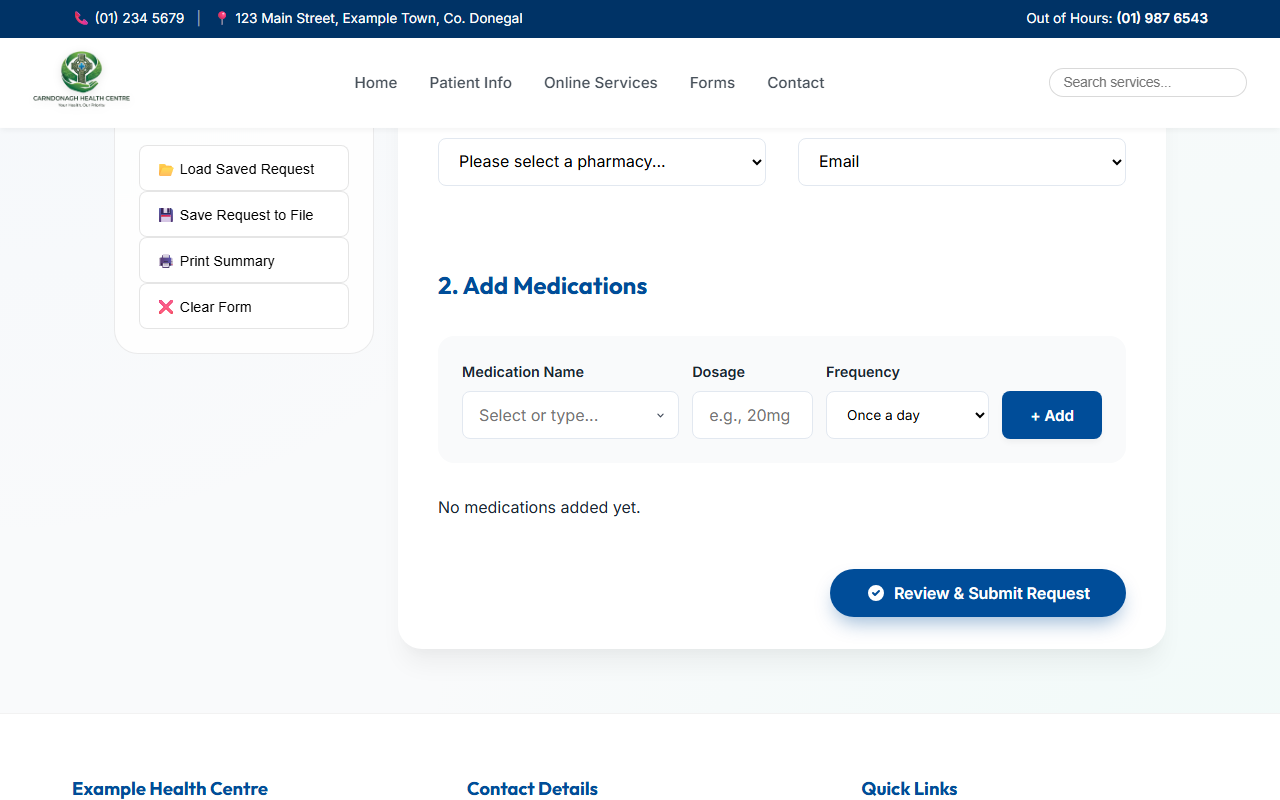
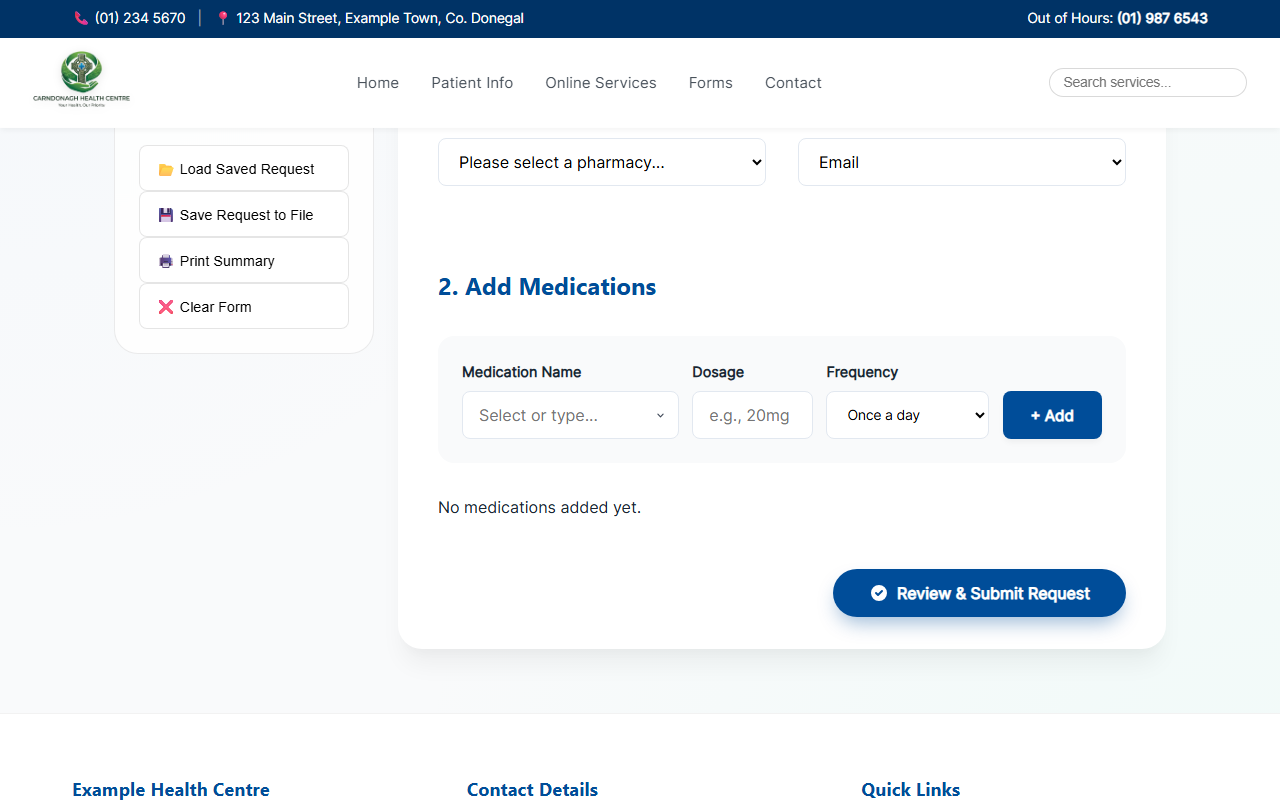
Fix: strict token check, document updates, strip Google Fonts, fix regex, lock demo mode, trim search, correct phone data, update UI colors, harden fetch, wait for image load, test bypasses

diff --git a/order-prescription.html b/order-prescription.html
@@ -8,9 +8,6 @@
         content="Order repeat prescriptions online from Example Health Centre. Secure and convenient.">
     <title>Order Repeat Prescription - Example Health Centre</title>
     <link rel="stylesheet" href="css/style.css">
-    <link rel="preconnect" href="https://fonts.googleapis.com">
-    <link rel="preconnect" href="https://fonts.gstatic.com" crossorigin>
-    <link href="https://fonts.googleapis.com/css2?family=Outfit:wght@300;400;500;600;700;800&family=Inter:wght@300;400;500;600&display=swap" rel="stylesheet">
     <style>
         /* Specific enhancements for the Prescription App */
 
@@ -222,8 +219,8 @@
                 <p class="form-subtitle">Please allow <strong>48 hours</strong> for your prescription to be processed
                     and sent to your pharmacy.</p>
 
-                <div class="alert-card" style="border-left-color: var(--error-color); margin-bottom: 2rem;">
-                    <h3 style="color: var(--error-color);">Do Not Order Antibiotics</h3>
+                <div class="alert-card" style="border-left-color: var(--danger, #dc3545); margin-bottom: 2rem;">
+                    <h3 style="color: var(--danger, #dc3545);">Do Not Order Antibiotics</h3>
                     <p>Antibiotics cannot be ordered via this form. If you require urgent treatment for an infection,
                         please contact reception directly.</p>
                 </div>
@@ -799,13 +796,22 @@
 
             fetch(SCRIPT_WEB_APP_URL, {
                 method: 'POST',
-                mode: 'no-cors',
                 headers: {
                     'Content-Type': 'text/plain'
                 },
                 body: JSON.stringify(payload)
             })
-                .then(() => {
+                .then(async response => {
+                    if (response.type === 'opaque') {
+                        throw new Error('Opaque response received; cannot verify submission.');
+                    }
+                    if (!response.ok) {
+                        throw new Error(`Server returned HTTP ${response.status}`);
+                    }
+                    const result = await response.json();
+                    if (result && result.result !== 'success') {
+                        throw new Error(result.error || 'Submission was not accepted.');
+                    }
                     document.getElementById('summaryModal').style.display = 'none';
                     const ref = generateReferenceNumber();
                     document.getElementById('prescriptionForm').style.display = 'none';

diff --git a/appointments.html b/appointments.html
@@ -6,9 +6,6 @@
     <meta name="description" content="Book an appointment at Example Health Centre. Learn about appointment types, home visits, and emergency information.">
     <title>Appointments - Example Health Centre</title>
     <link rel="stylesheet" href="css/style.css">
-    <link rel="preconnect" href="https://fonts.googleapis.com">
-    <link rel="preconnect" href="https://fonts.gstatic.com" crossorigin>
-    <link href="https://fonts.googleapis.com/css2?family=Outfit:wght@300;400;500;600;700;800&family=Inter:wght@300;400;500;600&display=swap" rel="stylesheet">
     <script src="js/theme.js"></script>
     <script src="js/config.js"></script>
 </head>
@@ -213,9 +210,7 @@
 
             const isLiveDeployment = Boolean(
                 (typeof CONFIG !== 'undefined' && (CONFIG.LIVE_DEPLOYMENT || CONFIG.IS_LIVE)) ||
-                window.IS_LIVE ||
-                (typeof localStorage !== 'undefined' && localStorage.getItem('LIVE_DEPLOYMENT') === 'true') ||
-                (typeof location !== 'undefined' && location.search && location.search.includes('live=true'))
+                window.IS_LIVE
             );
 
             // In demo mode, skip the network request entirely and simulate success

diff --git a/sick-notes.html b/sick-notes.html
@@ -6,9 +6,6 @@
     <meta name="description" content="Request a sick note or sickness certification from Example Health Centre.">
     <title>Sick Notes & Certification - Example Health Centre</title>
     <link rel="stylesheet" href="css/style.css">
-    <link rel="preconnect" href="https://fonts.googleapis.com">
-    <link rel="preconnect" href="https://fonts.gstatic.com" crossorigin>
-    <link href="https://fonts.googleapis.com/css2?family=Outfit:wght@300;400;500;600;700;800&family=Inter:wght@300;400;500;600&display=swap" rel="stylesheet">
     <script src="js/theme.js"></script>
     <script src="js/config.js"></script>
     <style>

diff --git a/forms.html b/forms.html
@@ -6,9 +6,6 @@
     <meta name="description" content="Download useful forms for Example Health Centre including medical card applications and driving licence reports.">
     <title>Useful Forms - Example Health Centre</title>
     <link rel="stylesheet" href="css/style.css">
-    <link rel="preconnect" href="https://fonts.googleapis.com">
-    <link rel="preconnect" href="https://fonts.gstatic.com" crossorigin>
-    <link href="https://fonts.googleapis.com/css2?family=Outfit:wght@300;400;500;600;700;800&family=Inter:wght@300;400;500;600&display=swap" rel="stylesheet">
     <script src="js/theme.js"></script>
 </head>
 <body>

diff --git a/zero-tolerance.html b/zero-tolerance.html
@@ -6,9 +6,6 @@
     <meta name="description" content="Zero Tolerance Policy at Example Health Centre. Ensuring a safe environment for staff and patients.">
     <title>Zero Tolerance Policy - Example Health Centre</title>
     <link rel="stylesheet" href="css/style.css">
-    <link rel="preconnect" href="https://fonts.googleapis.com">
-    <link rel="preconnect" href="https://fonts.gstatic.com" crossorigin>
-    <link href="https://fonts.googleapis.com/css2?family=Outfit:wght@300;400;500;600;700;800&family=Inter:wght@300;400;500;600&display=swap" rel="stylesheet">
     <script src="js/theme.js"></script>
 </head>
 <body>

diff --git a/contact.html b/contact.html
@@ -6,9 +6,6 @@
     <meta name="description" content="Contact Example Health Centre for appointments and queries. View our location, phone numbers, and opening hours.">
     <title>Contact - Example Health Centre</title>
     <link rel="stylesheet" href="css/style.css">
-    <link rel="preconnect" href="https://fonts.googleapis.com">
-    <link rel="preconnect" href="https://fonts.gstatic.com" crossorigin>
-    <link href="https://fonts.googleapis.com/css2?family=Outfit:wght@300;400;500;600;700;800&family=Inter:wght@300;400;500;600&display=swap" rel="stylesheet">
     <script src="js/theme.js"></script>
 </head>
 <body>

diff --git a/confidentiality.html b/confidentiality.html
@@ -6,9 +6,6 @@
     <meta name="description" content="Confidentiality and Patient Records at Example Health Centre. Data Protection and Respect policies.">
     <title>Confidentiality - Example Health Centre</title>
     <link rel="stylesheet" href="css/style.css">
-    <link rel="preconnect" href="https://fonts.googleapis.com">
-    <link rel="preconnect" href="https://fonts.gstatic.com" crossorigin>
-    <link href="https://fonts.googleapis.com/css2?family=Outfit:wght@300;400;500;600;700;800&family=Inter:wght@300;400;500;600&display=swap" rel="stylesheet">
     <script src="js/theme.js"></script>
 </head>
 <body>

diff --git a/prices.html b/prices.html
@@ -6,9 +6,6 @@
     <meta name="description" content="View the price list and payment options for services at Example Health Centre.">
     <title>Fees & Payment - Example Health Centre</title>
     <link rel="stylesheet" href="css/style.css">
-    <link rel="preconnect" href="https://fonts.googleapis.com">
-    <link rel="preconnect" href="https://fonts.gstatic.com" crossorigin>
-    <link href="https://fonts.googleapis.com/css2?family=Outfit:wght@300;400;500;600;700;800&family=Inter:wght@300;400;500;600&display=swap" rel="stylesheet">
     <style>
         .pricing-grid {
             display: grid;

diff --git a/test-results.html b/test-results.html
@@ -6,9 +6,6 @@
     <meta name="description" content="Information about test results at Example Health Centre.">
     <title>Test Results - Example Health Centre</title>
     <link rel="stylesheet" href="css/style.css">
-    <link rel="preconnect" href="https://fonts.googleapis.com">
-    <link rel="preconnect" href="https://fonts.gstatic.com" crossorigin>
-    <link href="https://fonts.googleapis.com/css2?family=Outfit:wght@300;400;500;600;700;800&family=Inter:wght@300;400;500;600&display=swap" rel="stylesheet">
     <script src="js/theme.js"></script>
 </head>
 <body>

diff --git a/new-patients.html b/new-patients.html
@@ -6,9 +6,6 @@
     <meta name="description" content="Information for new patients at Example Health Centre.">
     <title>New Patients - Example Health Centre</title>
     <link rel="stylesheet" href="css/style.css">
-    <link rel="preconnect" href="https://fonts.googleapis.com">
-    <link rel="preconnect" href="https://fonts.gstatic.com" crossorigin>
-    <link href="https://fonts.googleapis.com/css2?family=Outfit:wght@300;400;500;600;700;800&family=Inter:wght@300;400;500;600&display=swap" rel="stylesheet">
     <script src="js/theme.js"></script>
 </head>
 <body>

diff --git a/js/config.js b/js/config.js
@@ -1,7 +1,7 @@
 // Global configuration for the application
 const CONFIG = {
     // Live deployment flag: when false/unset, appointments and forms operate in demo mode
-    LIVE_DEPLOYMENT: true,
+    LIVE_DEPLOYMENT: false,
     // The deployed Google Apps Script Web App URL
     SCRIPT_WEB_APP_URL: "https://script.google.com/macros/s/AKfycbwJqid8iaWeVppJjnBeyk11nKFj-2EWLuDLCZNlG9wbJ8eHDOo_zD3g65qHP0n7-tcL/exec",
     // Shared submission token — must match SUBMISSION_TOKEN in Apps Script Project Settings > Script Properties

diff --git a/index.html b/index.html
@@ -7,9 +7,6 @@
     <title>Example Health Centre | Modern GP Practice</title>
     <link rel="stylesheet" href="css/style.css">
     <script src="js/theme.js"></script>
-    <link rel="preconnect" href="https://fonts.googleapis.com">
-    <link rel="preconnect" href="https://fonts.gstatic.com" crossorigin>
-    <link href="https://fonts.googleapis.com/css2?family=Outfit:wght@300;400;500;600;700;800&family=Inter:wght@300;400;500;600&display=swap" rel="stylesheet">
 </head>
 <body>
     <header id="header-placeholder"></header>
